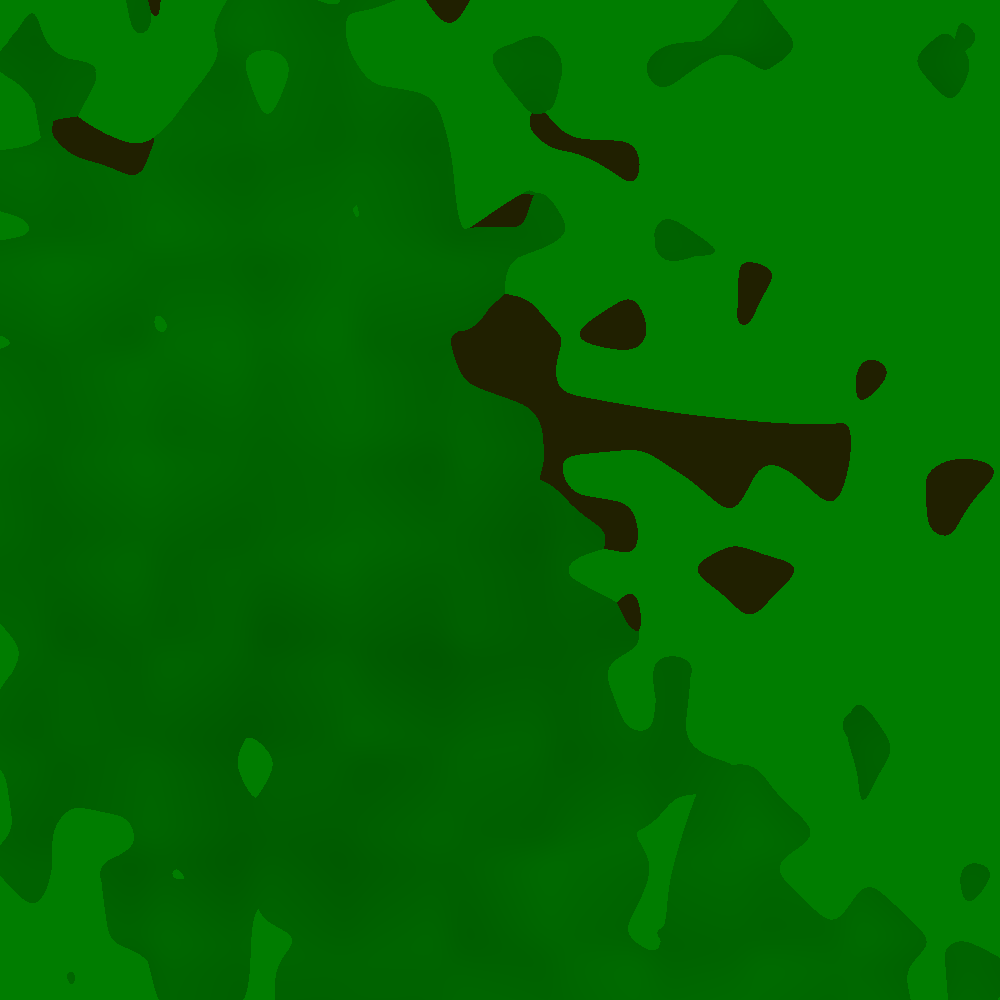
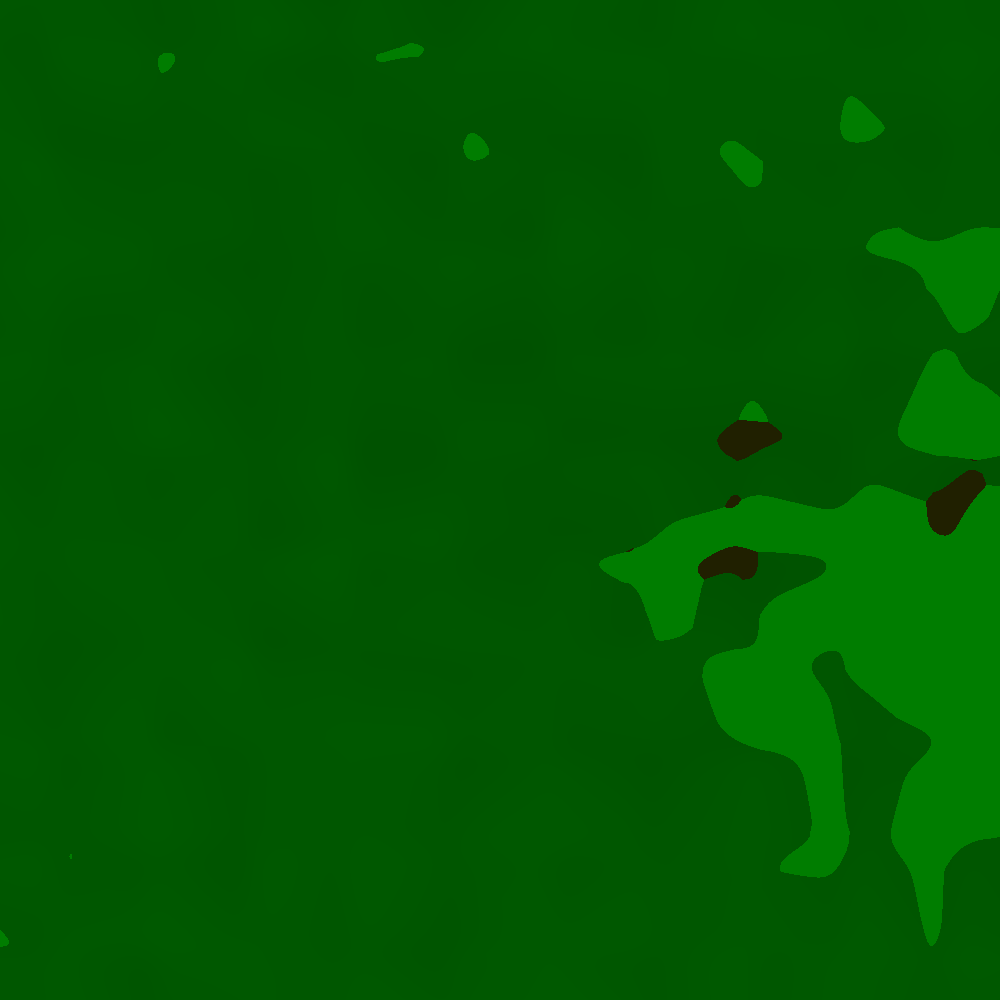
alt

diff --git a/lib/src/test/java/procedural_generation/Biomes1Test.java b/lib/src/test/java/procedural_generation/Biomes1Test.java
@@ -90,7 +90,7 @@ public class Biomes1Test {
         HashMap<ClimatRule, ClimatMinMax> climatMinMaxes1 = new HashMap<>();
         climatMinMaxes1.put(wind, new ClimatMinMax(0.4, 0.5, 0.3));
         climatMinMaxes1.put(temperature, new ClimatMinMax(0.4, 0.5, 0.2));
-        climatMinMaxes1.put(humidity, new ClimatMinMax(0.5, 0.7, 0.2));
+        climatMinMaxes1.put(humidity, new ClimatMinMax(0.6, 0.7, 0.2));
         Biome plaine = new SimpleBiome(0.51, "plaine", climatMinMaxes1);
         biomes.add(plaine);
 
@@ -104,7 +104,7 @@ public class Biomes1Test {
         HashMap<ClimatRule, ClimatMinMax> climatMinMaxes3 = new HashMap<>();
         climatMinMaxes3.put(wind, new ClimatMinMax(0.6, 0.8, 0.3));
         climatMinMaxes3.put(temperature, new ClimatMinMax(0.2, 0.5, 0.2));
-        climatMinMaxes3.put(humidity, new ClimatMinMax(0.5, 0.7, 0.2));
+        climatMinMaxes3.put(humidity, new ClimatMinMax(0.6, 0.8, 0.2));
         Biome montagne = new SimpleBiome(0.8, "montagne", climatMinMaxes3);
         biomes.add(montagne);
 
@@ -121,7 +121,7 @@ public class Biomes1Test {
                 int green = (int) ((plaine.pourcent(x, y, 0.0, values, complexNoise)) * 255);
                 int red = (int) ((desert.pourcent(x, y, 0.0, values, complexNoise)) * 255);
                 // only keep the max
-                int max = Math.max(Math.max(red, green), blue);
+                int max = Math.max(Math.max(Math.max(red, green), blue), 229);
                 red = max == red ? red : 0;
                 green = max == green ? green : 0;
                 blue = max == blue ? blue : 0;

diff --git a/lib/src/main/java/procedural_generation/biomes/BiomesManager.java b/lib/src/main/java/procedural_generation/biomes/BiomesManager.java
@@ -61,17 +61,26 @@ public class BiomesManager {
             }
         }
         if (biome0 == null) {
-            return currentAltitude;
+            double finalAltitude = currentAltitude;
+            for (Biome biome : biomePourcent.keySet()) {
+                finalAltitude += biome.getAltitude(x, y, currentAltitude) * biomePourcent.get(biome);
+            }
+            // divide by the sum of all pourcent
+            double sum = 1;
+            for (double pourcent : biomePourcent.values()) {
+                sum += pourcent;
+            }
+            return finalAltitude / sum;
         }
         if (biomePourcentValue > 0.9) {
             return biome0.getAltitude(x, y, currentAltitude);
         }
-        double finalAltitude = currentAltitude;
+        double finalAltitude = 0;
         for (Biome biome : biomePourcent.keySet()) {
             finalAltitude += biome.getAltitude(x, y, currentAltitude) * biomePourcent.get(biome);
         }
         // divide by the sum of all pourcent
-        double sum = 1;
+        double sum = 0;
         for (double pourcent : biomePourcent.values()) {
             sum += pourcent;
         }
